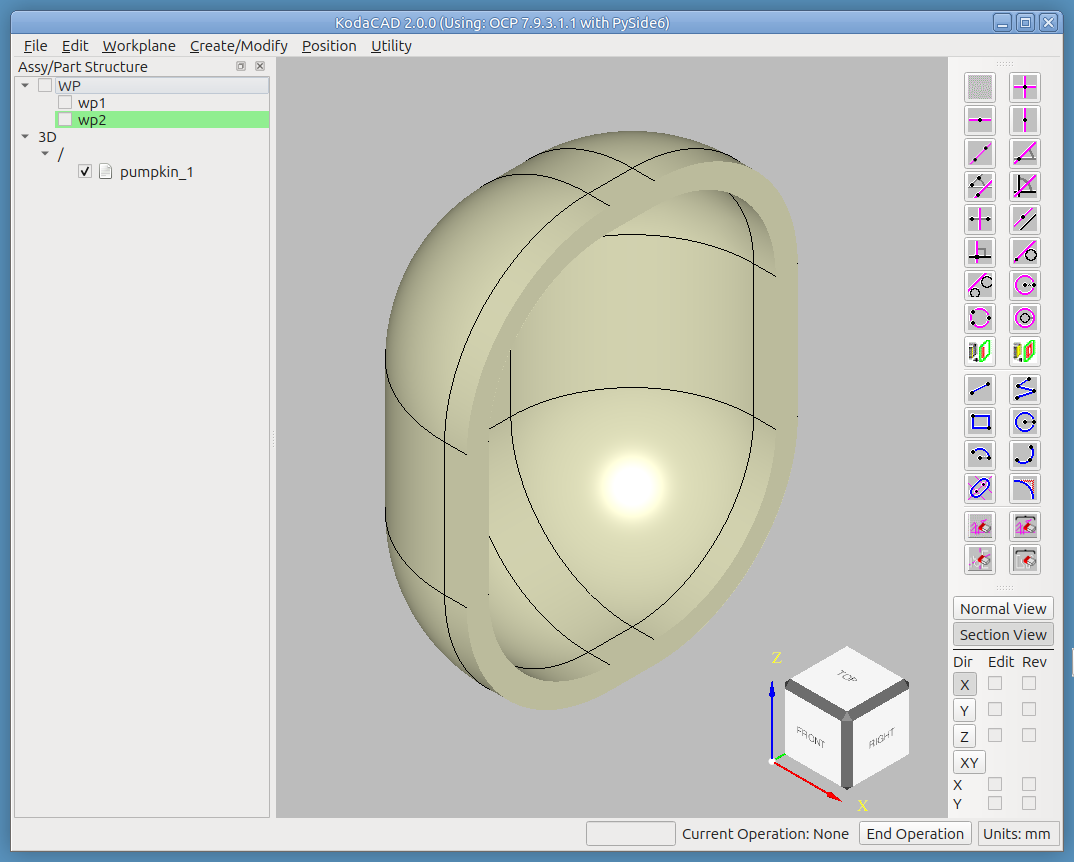
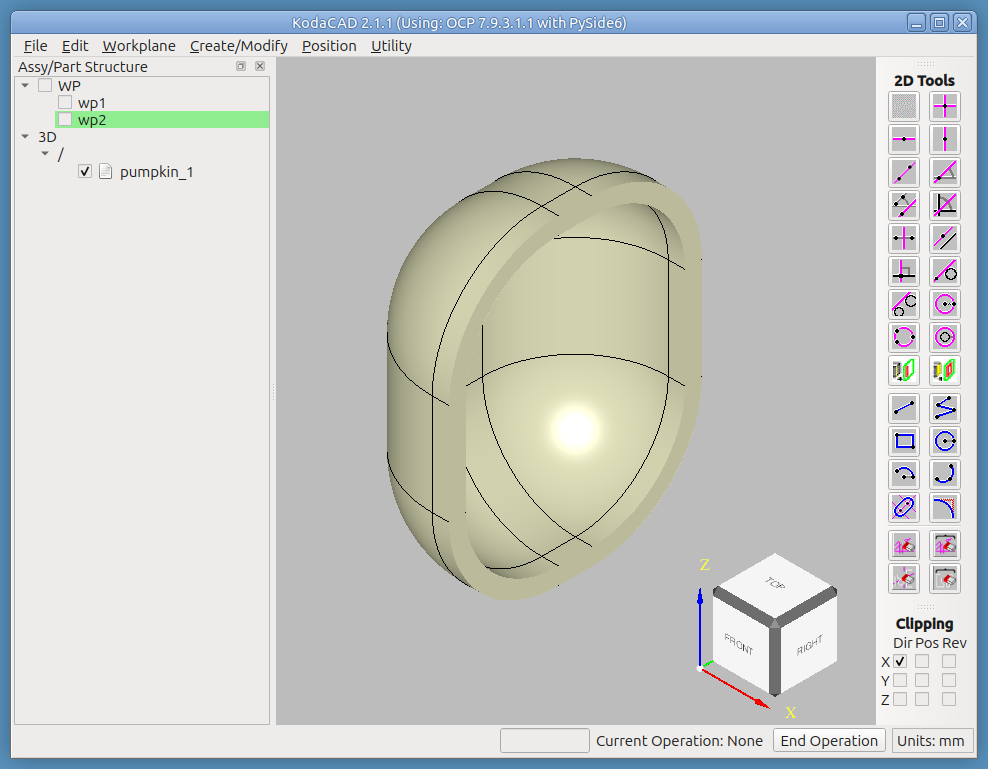
Update jack tutorial to show new clipping UI

diff --git a/tutorials/jack/README.md b/tutorials/jack/README.md
@@ -188,16 +188,16 @@ in this project against both this pumpkin shape and a plain filleted
 bottle. It's also not a problem for this particular build, since the
 face will be cut through entirely in the next step regardless.
 
-In order to verify that the punpkin was properly shelled, click on the 
-**Section View** button near the bottom of the toolbar.
+In order to verify that the pumpkin was properly shelled, click on the 
+**X** Direction button in the **Clipping** section of the toolbar.
 
 ![Section View of Pumpkin](imgs/section-view.png)
 
-Initially, the clipped "face" of the section view will be in the X direction.
+This will show the clipped "face" of the section view in the X direction.
 Click on other directions to explore the way section views are displayed.
-Once in a section view, you can edit the location of the clipping plane.
-If you select **Normal View** again, then return to the section view
-just edited, the clipping plane you set will be remembered.
+Once in a section view, you can edit the position of the clipping plane.
+Unclicking all the **Dir** column options returns to the normal view.
+Any adjustments made to clipping plane positions will be remembered.
 
 *Exercises: Shell on a form whose only candidate open face is entirely
 tangent-bounded, Section Views, and how to adjust the position of the 
